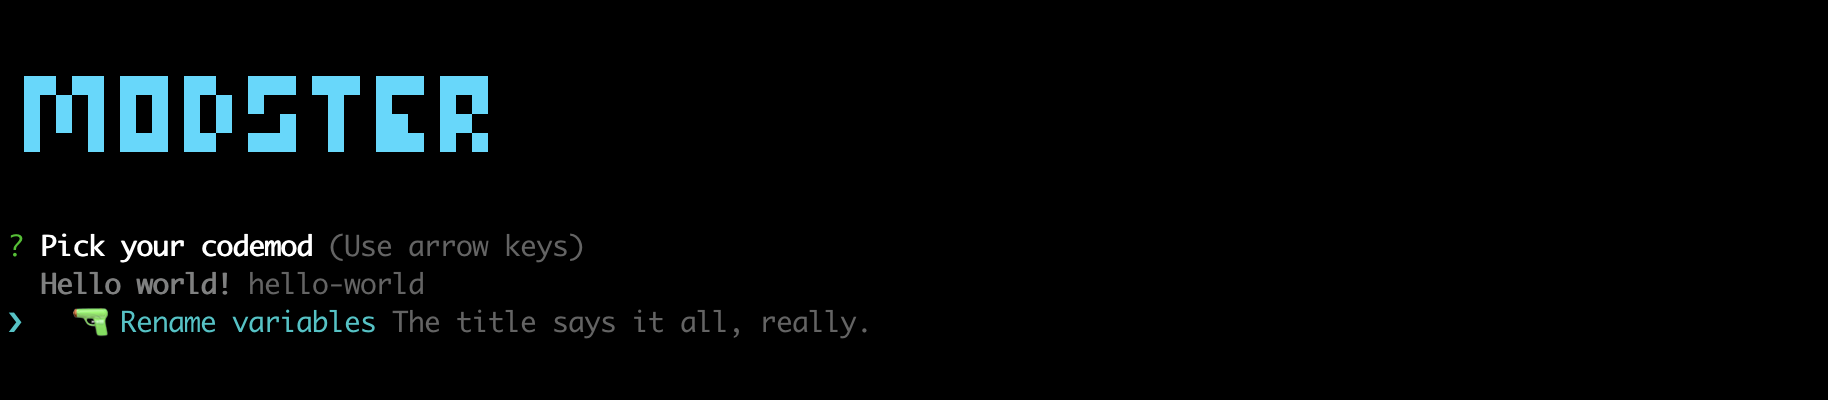
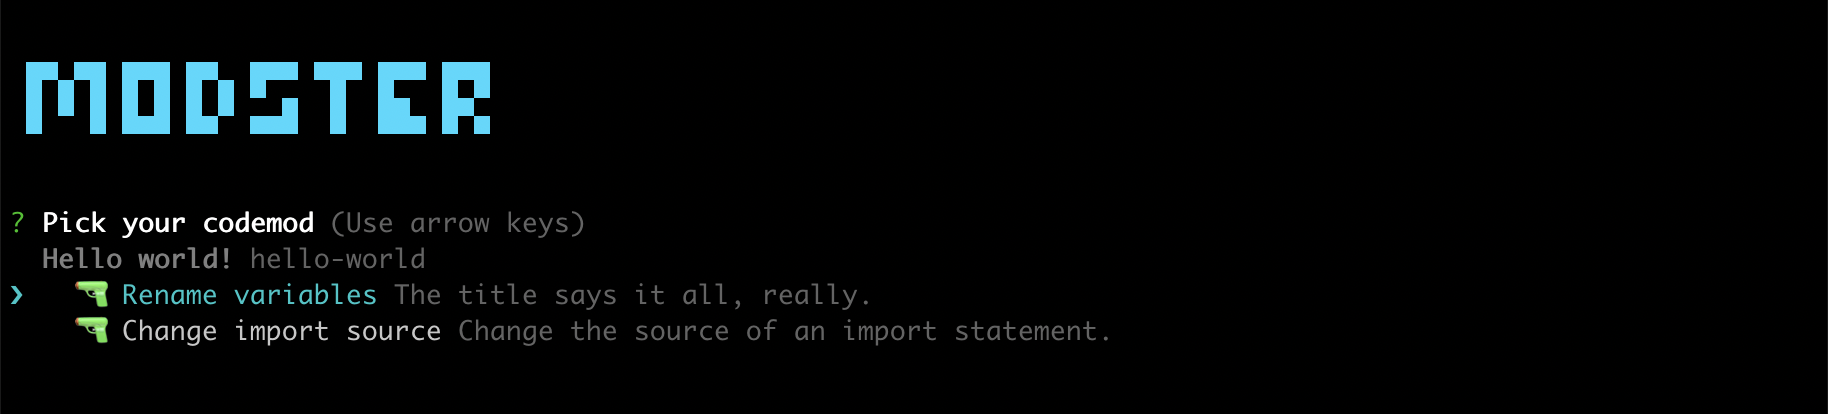
Add second codemod

Changed region(s): [[0.0, 0.51, 0.5925, 0.84], [0.0, 0.15, 0.2806, 0.39], [0.9978, 0.0, 1.0, 1.0]]

diff --git a/src/codemods/change-import-source.js b/src/codemods/change-import-source.js
@@ -1,0 +1,20 @@
+const path = require('path');
+
+module.exports.filename = () => path.join(require.resolve('codemods-hello-world'), '../codemods/change-import-source.js');
+
+module.exports.title = "Change import source";
+
+module.exports.description = "Change the source of an import statement.";
+
+module.exports.questions = () => [
+    {
+        name: 'from', // note that this matches the 'from' option in the codemod implementation
+        type: 'input',
+        message: 'What import source do you want to change',
+    },
+    {
+        name: 'to', // note that this matches the 'to' option in the codemod implementation
+        type: 'input',
+        message: 'What do you want to change your import source to?',
+    }
+];

diff --git a/src/index.js b/src/index.js
@@ -1,8 +1,10 @@
 const renameVariable = require('./codemods/rename-variable');
+const changeImportSource = require('./codemods/change-import-source');
 
 module.exports = {
     title: "Hello world!",
     codemods: {
         'rename-variable': renameVariable,
+        'change-import-source': changeImportSource,
     }
 };

diff --git a/README.md b/README.md
@@ -26,4 +26,22 @@ module.exports = {
 
 ### Rename variables
 
-Renames all variables of name `--from` to `--to`. Take this as a starting point for your own Modster plugins and codemods!
+Renames all variables of name `--from` to `--to`.
+
+With `--from=foo` and `--to=bar`:
+
+```diff
+-   const foo = 'bar';
++   const bar = 'bar';   
+```
+
+### Change import source
+
+Changes all import statement with source `--from` to `--to`. 
+
+With `--from=foo` and `--to=bar`:
+
+```diff
+-   import bar from 'foo';
++   import bar from 'bar';   
+```
